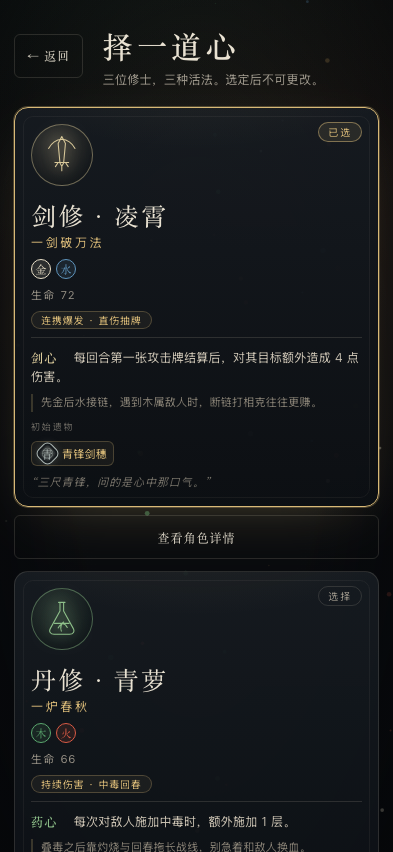
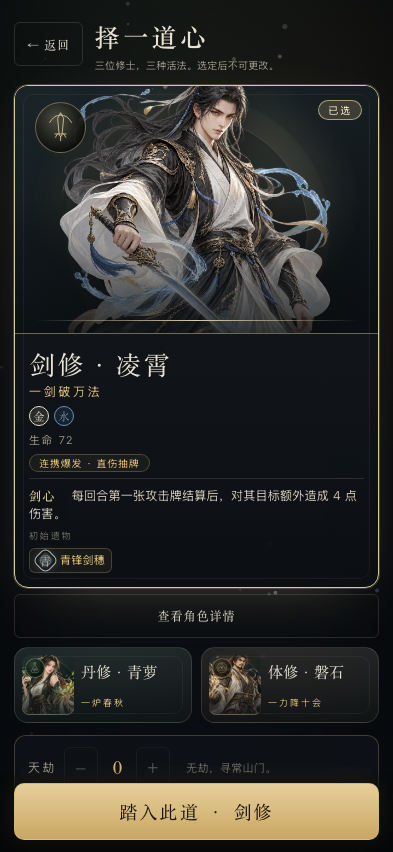
fix ui05

diff --git a/css/style.css b/css/style.css
@@ -234,6 +234,7 @@ button:focus-visible { outline: 2px solid var(--gold); outline-offset: 3px; }
 
 /* ---------------- 选择角色 ---------------- */
 .select-screen { display: flex; flex-direction: column; max-width: 1380px; margin: 0 auto; }
+.select-screen .page-head { padding-bottom: 8px; }
 .page-head { display: flex; align-items: center; gap: 20px; padding: 8px 0 18px; }
 .page-head h1 { margin: 0; font-size: 30px; letter-spacing: 0.14em; }
 .page-head p { margin: 2px 0 0; color: var(--muted); font-size: 12px; }
@@ -246,7 +247,7 @@ button:focus-visible { outline: 2px solid var(--gold); outline-offset: 3px; }
   position: relative; text-align: left; cursor: pointer; color: var(--text);
   border: 1px solid var(--line); border-radius: 14px; padding: 18px 20px 16px;
   background:
-    radial-gradient(420px 200px at 50% -20%, rgba(216, 185, 119, 0.09), transparent 60%),
+    radial-gradient(420px 200px at 50% -20%, color-mix(in srgb, var(--accent) 12%, transparent), transparent 60%),
     linear-gradient(180deg, rgba(22, 27, 33, 0.92), rgba(12, 15, 19, 0.94));
   display: flex; flex-direction: column; gap: 8px; min-height: 470px;
   transition: 0.22s ease; overflow: hidden;
@@ -256,18 +257,30 @@ button:focus-visible { outline: 2px solid var(--gold); outline-offset: 3px; }
   border-radius: 10px; pointer-events: none;
 }
 @media (hover: hover) and (pointer: fine) { .char-card:hover { transform: translateY(-4px); border-color: rgba(216, 185, 119, 0.45); box-shadow: 0 20px 50px -28px rgba(0, 0, 0, 0.9); } }
-.char-card.selected { border-color: var(--gold); box-shadow: 0 0 0 1px rgba(216, 185, 119, 0.3), 0 20px 60px -30px rgba(216, 185, 119, 0.4); }
+.char-card:focus-visible { outline: 2px solid var(--gold); outline-offset: 3px; }
+.char-card.selected { border-color: var(--accent); box-shadow: 0 0 0 1px color-mix(in srgb, var(--accent) 25%, transparent), 0 20px 60px -30px color-mix(in srgb, var(--accent) 38%, transparent); }
 .char-choose {
-  position: absolute; top: 14px; right: 16px; font-size: 10px; letter-spacing: 0.16em;
-  color: var(--muted); border: 1px solid var(--line); border-radius: 20px; padding: 2px 9px;
+  position: absolute; z-index: 5; top: 14px; right: 16px; font-size: 10px; letter-spacing: 0.16em;
+  color: var(--muted); border: 1px solid var(--line); border-radius: 20px; padding: 2px 9px; background: rgba(9, 13, 16, 0.72);
 }
-.char-card.selected .char-choose { color: var(--gold); border-color: rgba(216, 185, 119, 0.5); background: rgba(216, 185, 119, 0.1); }
+.char-card.selected .char-choose { color: #fff0cb; border-color: color-mix(in srgb, var(--accent) 70%, transparent); background: color-mix(in srgb, var(--accent) 22%, #111418); }
+.char-visual {
+  position: relative; display: block; flex: 0 0 188px; height: 188px; margin: -18px -20px 4px;
+  overflow: hidden; isolation: isolate;
+  background: radial-gradient(ellipse 58% 70% at 50% 45%, color-mix(in srgb, var(--accent) 27%, transparent), transparent 78%), linear-gradient(160deg, #1a2528, #0c1014);
+  border-bottom: 1px solid color-mix(in srgb, var(--accent) 42%, transparent);
+}
+.char-visual::before { content: ''; position: absolute; z-index: -1; width: 220px; height: 220px; left: 50%; top: 13%; transform: translateX(-50%); border: 1px solid color-mix(in srgb, var(--accent) 23%, transparent); border-radius: 50%; box-shadow: 0 0 0 22px color-mix(in srgb, var(--accent) 4%, transparent), 0 0 65px color-mix(in srgb, var(--accent) 16%, transparent); }
+.char-visual::after { content: ''; position: absolute; z-index: 2; inset: 45% 0 0; background: linear-gradient(transparent, rgba(11, 15, 18, 0.82)); pointer-events: none; }
+.char-portrait { position: absolute; z-index: 1; top: -20px; left: 50%; width: auto; max-width: none; height: 350px; transform: translateX(-50%); filter: drop-shadow(0 18px 25px #000a); transition: transform 0.32s ease, filter 0.32s ease; }
+.char-visual-rule { position: absolute; z-index: 3; height: 1px; left: 20px; right: 20px; bottom: 12px; background: linear-gradient(90deg, transparent, color-mix(in srgb, var(--accent) 72%, #e4d6b4), transparent); }
+@media (hover: hover) and (pointer: fine) { .char-card:hover .char-portrait { transform: translateX(-50%) scale(1.035); filter: drop-shadow(0 18px 28px #000c) brightness(1.08); } }
 .char-glyph {
-  width: 94px; height: 94px; border-radius: 50%; display: flex; align-items: center; justify-content: center;
-  font-family: var(--serif); font-size: 42px; color: var(--accent);
+  position: absolute; z-index: 3; left: 20px; top: 16px; width: 49px; height: 49px; border-radius: 50%; display: flex; align-items: center; justify-content: center;
+  font-family: var(--serif); font-size: 26px; color: var(--accent);
   border: 1px solid color-mix(in srgb, var(--accent) 45%, transparent);
-  background: radial-gradient(circle at 38% 30%, color-mix(in srgb, var(--accent) 16%, transparent), rgba(0, 0, 0, 0.2));
-  margin-bottom: 4px; text-shadow: 0 0 28px color-mix(in srgb, var(--accent) 40%, transparent);
+  background: radial-gradient(circle at 38% 30%, color-mix(in srgb, var(--accent) 23%, #10171a), rgba(0, 0, 0, 0.7));
+  text-shadow: 0 0 28px color-mix(in srgb, var(--accent) 40%, transparent);
 }
 .char-name { font-family: var(--serif); font-size: 25px; letter-spacing: 0.1em; }
 .char-title { color: var(--gold); font-size: 12px; letter-spacing: 0.2em; margin-top: -6px; }
@@ -289,7 +302,7 @@ button:focus-visible { outline: 2px solid var(--gold); outline-offset: 3px; }
 .char-flavor { color: #736f66; font-size: 11px; font-style: italic; letter-spacing: 0.06em; }
 .select-foot {
   display: flex; align-items: center; justify-content: space-between; gap: 20px;
-  margin-top: 18px; padding: 14px 18px; border: 1px solid var(--line); border-radius: 12px;
+  margin-top: 10px; padding: 14px 18px; border: 1px solid var(--line); border-radius: 12px;
   background: rgba(14, 18, 23, 0.86);
 }
 .ascension-box { display: flex; align-items: center; gap: 8px; flex-wrap: wrap; }
@@ -297,6 +310,7 @@ button:focus-visible { outline: 2px solid var(--gold); outline-offset: 3px; }
 .asc-value { font-family: var(--serif); font-size: 20px; color: var(--gold); min-width: 22px; text-align: center; }
 .asc-desc { color: var(--faint); font-size: 11px; margin-left: 8px; }
 .start-btn { min-width: 210px; }
+.select-mobile-action { display: none; }
 .select-tip { color: #6e6a61; font-size: 11px; letter-spacing: 0.06em; text-align: center; margin-top: 12px; }
 
 /* ---------------- 地图 ---------------- */
@@ -1085,7 +1099,7 @@ body.zhoutian-flash::after {
   .card-art { height: 56px; }
   .char-grid { gap: 12px; }
   .char-card { padding: 16px; min-height: 450px; }
-  .char-glyph { width: 78px; height: 78px; font-size: 34px; }
+  .char-glyph { width: 49px; height: 49px; font-size: 26px; }
   .player-panel { width: 300px; }
   .chain-panel { max-width: 360px; }
   .hand-area { padding: 0 165px 0 195px; }
@@ -1114,7 +1128,7 @@ body.zhoutian-flash::after {
   .char-grid { grid-template-columns: 1fr; max-height: none; }
   .char-card { min-height: auto; }
   .select-screen { max-width: 760px; }
-  .char-glyph { width: 62px; height: 62px; font-size: 28px; }
+  .char-glyph { width: 45px; height: 45px; font-size: 24px; }
   .char-deck { display: none; }
   .deck-label { display: none; }
   .enemy-unit { width: 210px; }
@@ -1293,6 +1307,48 @@ body.zhoutian-flash::after {
   .settings-row { min-height: 48px; }
   .help-grid { grid-template-columns: 1fr; }
   .help-keys { display: none; }
+}
+
+@media (max-width: 600px) {
+  /* 选角：当前修士占据主画面，其余修士保留可直接点选的预览。 */
+  .select-screen { padding-bottom: max(104px, calc(92px + env(safe-area-inset-bottom))); }
+  .select-screen .page-head { gap: 12px; padding: 3px 0 13px; }
+  .select-screen .page-head h1 { font-size: 25px; }
+  .select-screen .page-head p { font-size: 10px; line-height: 1.4; }
+  .char-grid { display: grid; grid-template-columns: repeat(2, minmax(0, 1fr)); gap: 9px; }
+  .char-entry.selected { grid-column: 1 / -1; }
+  .char-entry { gap: 6px; }
+  .char-card { min-height: 0; padding: 12px 14px; gap: 6px; }
+  .char-card.selected { padding-bottom: 14px; }
+  .char-card.selected .char-visual { flex: 0 0 248px; height: 248px; margin: -12px -14px 5px; }
+  .char-card.selected .char-portrait { height: 420px; top: -35px; }
+  .char-card.selected .char-glyph { width: 51px; height: 51px; }
+  .char-card.selected .char-name { font-size: 26px; }
+  .char-card.selected .char-title { margin-top: -5px; }
+  .char-card.selected .char-passive { padding-top: 8px; line-height: 1.5; }
+  .char-card.selected .char-tip, .char-card.selected .char-flavor { display: none; }
+  .char-card:not(.selected) {
+    display: grid; grid-template-columns: 52px minmax(0, 1fr); grid-template-rows: repeat(2, auto);
+    gap: 2px 7px; min-height: 76px; align-items: center; padding: 7px;
+  }
+  .char-card:not(.selected) .char-visual { grid-column: 1; grid-row: 1 / 3; width: 52px; height: 60px; flex: none; margin: 0; border-radius: 7px; }
+  .char-card:not(.selected) .char-visual::before { width: 54px; height: 54px; top: 4px; }
+  .char-card:not(.selected) .char-visual-rule { display: none; }
+  .char-card:not(.selected) .char-portrait { height: 120px; top: -9px; }
+  .char-card:not(.selected) .char-glyph { width: 20px; height: 20px; top: 3px; left: 3px; }
+  .char-card:not(.selected) .char-name { grid-column: 2; grid-row: 1; font-size: 15px; letter-spacing: 0.02em; white-space: nowrap; overflow: hidden; text-overflow: ellipsis; }
+  .char-card:not(.selected) .char-title { grid-column: 2; grid-row: 2; font-size: 9px; margin: 0; white-space: nowrap; overflow: hidden; text-overflow: ellipsis; }
+  .char-card:not(.selected) .char-choose, .char-card:not(.selected) .char-style { display: none; }
+  .char-card:not(.selected) .char-elems, .char-card:not(.selected) .char-hp,
+  .char-card:not(.selected) .char-passive, .char-card:not(.selected) .char-tip,
+  .char-card:not(.selected) .char-label, .char-card:not(.selected) .char-deck,
+  .char-card:not(.selected) .char-relic, .char-card:not(.selected) .char-flavor,
+  .char-card:not(.selected) + .char-detail-btn { display: none; }
+  .select-foot { margin-top: 12px; padding: 11px 13px; gap: 9px; border-color: rgba(216, 185, 119, 0.26); }
+  .select-foot .start-btn-desktop { display: none; }
+  .select-mobile-action { position: fixed; z-index: 30; display: block; left: 0; right: 0; bottom: 0; padding: 12px max(14px, env(safe-area-inset-right)) max(12px, env(safe-area-inset-bottom)) max(14px, env(safe-area-inset-left)); background: linear-gradient(transparent, rgba(5, 8, 10, 0.96) 25%); }
+  .select-mobile-action .start-btn { width: 100%; min-height: 54px; letter-spacing: 0.12em; box-shadow: 0 10px 35px #000b, 0 0 26px rgba(216, 185, 119, 0.18); }
+  .select-tip { margin: 10px 0 0; line-height: 1.5; }
 }
 
 @media (prefers-reduced-motion: reduce) {

diff --git a/js/ui.js b/js/ui.js
@@ -6,6 +6,7 @@
 
   const TYPE_NAMES = { attack: '攻击', skill: '技法', power: '功法', curse: '禁制', status: '业障' };
   const CHAR_GLYPHS = { sword: '剑', alchemist: '丹', monk: '体' };
+  const CHAR_PORTRAITS = { sword: 'assets/characters/sword.webp', alchemist: 'assets/characters/alchemist.webp', monk: 'assets/characters/monk.webp' };
   const CHAR_SIGILS = {
     sword: '<path d="M50 8 58 23 54 66 50 73 46 66 42 23Z M35 65h30 M42 65l-6 9m22-9 6 9M50 73v10"/><path d="M21 34c8-14 17-19 29-20m29 20c-8-14-17-19-29-20"/>',
     alchemist: '<path d="M43 12h14m-11 0v19L25 69c-4 7 0 13 8 13h34c8 0 12-6 8-13L54 31V12M34 58h32"/><path d="M42 68c7-12 14-12 20-1M49 75c-3-9-1-15 5-20"/>',
@@ -231,7 +232,7 @@
         this.resizeBackground();
         clearTimeout(this._resizeTimer);
         this._resizeTimer = setTimeout(() => {
-          if (!this.busy && this.state && (this.screen === 'combat' || this.screen === 'reward')) this.render();
+          if (!this.busy && (this.screen === 'select' || (this.state && (this.screen === 'combat' || this.screen === 'reward')))) this.render();
         }, 160);
       });
     },
@@ -953,7 +954,10 @@
       </main>`;
     },
     selectHTML() {
-      const chars = D.characters;
+      const chars = window.innerWidth <= 600
+        ? D.characters.slice().sort((a, b) => Number(b.id === this.selectedChar) - Number(a.id === this.selectedChar))
+        : D.characters;
+      const chosen = D.characters.find(ch => ch.id === this.selectedChar) || D.characters[0];
       return `
       <main class="screen select-screen">
         <header class="page-head">
@@ -972,10 +976,11 @@
             <button class="btn btn-square" data-action="asc-plus" ${this.ascension >= this.meta.maxAscension ? 'disabled' : ''}>＋</button>
             <span class="asc-desc">${this.ascension === 0 ? '无劫，寻常山门。' : `敌人生命 +${this.ascension * 4}%，伤害 +${this.ascension * 2}%，起始诅咒 ${this.ascension >= 10 ? 2 : this.ascension >= 6 ? 1 : 0} 张。`}</span>
           </div>
-          <button class="btn btn-primary btn-lg start-btn" data-action="begin-run">踏入此道</button>
+          <button class="btn btn-primary btn-lg start-btn start-btn-desktop" data-action="begin-run">踏入此道 · ${esc(chosen.name.split('·')[0])}</button>
         </footer>
         <p class="select-tip">提示：相生顺序为 木 → 火 → 土 → 金 → 水 → 木。用克敌属性出牌，可无视护甲。</p>
-      </main>`;
+      </main>
+      <div class="select-mobile-action"><button class="btn btn-primary btn-lg start-btn" data-action="begin-run">踏入此道 · ${esc(chosen.name.split('·')[0])}</button></div>`;
     },
     charCardHTML(ch) {
       const selected = this.selectedChar === ch.id;
@@ -985,10 +990,14 @@
       }).join('');
       const relic = D.relicMap[ch.relic];
       return `
-      <div class="char-entry">
-      <button class="char-card ${selected ? 'selected' : ''}" data-action="select-char" data-char="${ch.id}" style="--accent:${ch.accent}">
+      <div class="char-entry ${selected ? 'selected' : ''}">
+      <button class="char-card ${selected ? 'selected' : ''}" data-action="select-char" data-char="${ch.id}" style="--accent:${ch.accent}" aria-pressed="${selected}">
         <span class="char-choose">${selected ? '已选' : '选择'}</span>
-        <span class="char-glyph">${characterSigil(ch.id)}</span>
+        <span class="char-visual" aria-hidden="true">
+          <img class="char-portrait" src="${CHAR_PORTRAITS[ch.id]}" alt="" loading="eager" decoding="async">
+          <span class="char-glyph">${characterSigil(ch.id)}</span>
+          <span class="char-visual-rule"></span>
+        </span>
         <span class="char-name">${esc(ch.name)}</span>
         <span class="char-title">${esc(ch.title)}</span>
         <span class="char-elems">${ch.elements.map(e => elemBadge(e)).join('')}</span>

diff --git a/test/mobile-details.test.js b/test/mobile-details.test.js
@@ -211,6 +211,34 @@ test('角色选择与详情使用各自的符纹肖像', () => {
   }
 });
 
+test('手机选角优先展示已选角色立绘，并可切换到其他角色', () => {
+  const ui = makeUI(393);
+  ui.screen = 'select';
+  ui.ascension = 0;
+  ui.meta.maxAscension = 0;
+  const initial = ui.selectHTML();
+  assert.match(initial, /assets\/characters\/sword\.webp/);
+  assert.match(initial, /assets\/characters\/alchemist\.webp/);
+  assert.match(initial, /assets\/characters\/monk\.webp/);
+  assert.ok(initial.indexOf('data-char="sword"') < initial.indexOf('data-char="alchemist"'));
+  ui.action('select-char', { dataset: { char: 'monk' } });
+  const changed = ui.selectHTML();
+  assert.ok(changed.indexOf('data-char="monk"') < changed.indexOf('data-char="sword"'));
+  assert.match(changed, /char-card selected[^>]*data-char="monk"/);
+  assert.match(changed, /char-card selected[^>]*aria-pressed="true"/);
+  assert.match(changed, /踏入此道 · 体修/);
+  let rerenders = 0;
+  ui.render = () => { rerenders++; };
+  ui.resizeBackground = () => {};
+  ui.bind();
+  ui._testWindow.innerWidth = 1280;
+  ui._testListeners.resize();
+  ui._testWindow.innerWidth = 393;
+  ui._testListeners.resize();
+  assert.equal(rerenders, 2);
+  assert.ok(ui.selectHTML().indexOf('data-char="monk"') < ui.selectHTML().indexOf('data-char="sword"'));
+});
+
 test('遗物与丹药在图鉴和详情中使用可识别的器物造型', () => {
   const ui = makeUI();
   ui.screen = 'compendium';

diff --git a/README.md b/README.md
@@ -23,6 +23,7 @@
 - 战斗页手牌横向滑动，结束回合独立成行，不再遮挡手牌；丹药与牌堆移到手牌上方。
 - 战后奖励的三张卡牌纵向排列，直接展示完整效果与属性；点按后查看详情并确认领取。
 - 点按手牌或丹药，先查看完整说明，再确认出牌或使用；点按角色、敌人、遗物也可查看详情。
+- 选角页以三位修士的专属立绘展示风格；手机端将当前修士置于主卡，两位备选修士并排呈现，开始按钮保持在屏幕底部。
 - 战斗中的增益与负面状态可点开查看当前层数、完整效果和结算时机。
 - 卡牌详情可对照升级前后效果；休整点参悟会先展示差异，再确认升级。
 - 五行卡面采用不同纹样与边框色，升级牌有「悟」印记；奖励选牌沿用同一视觉标识。
